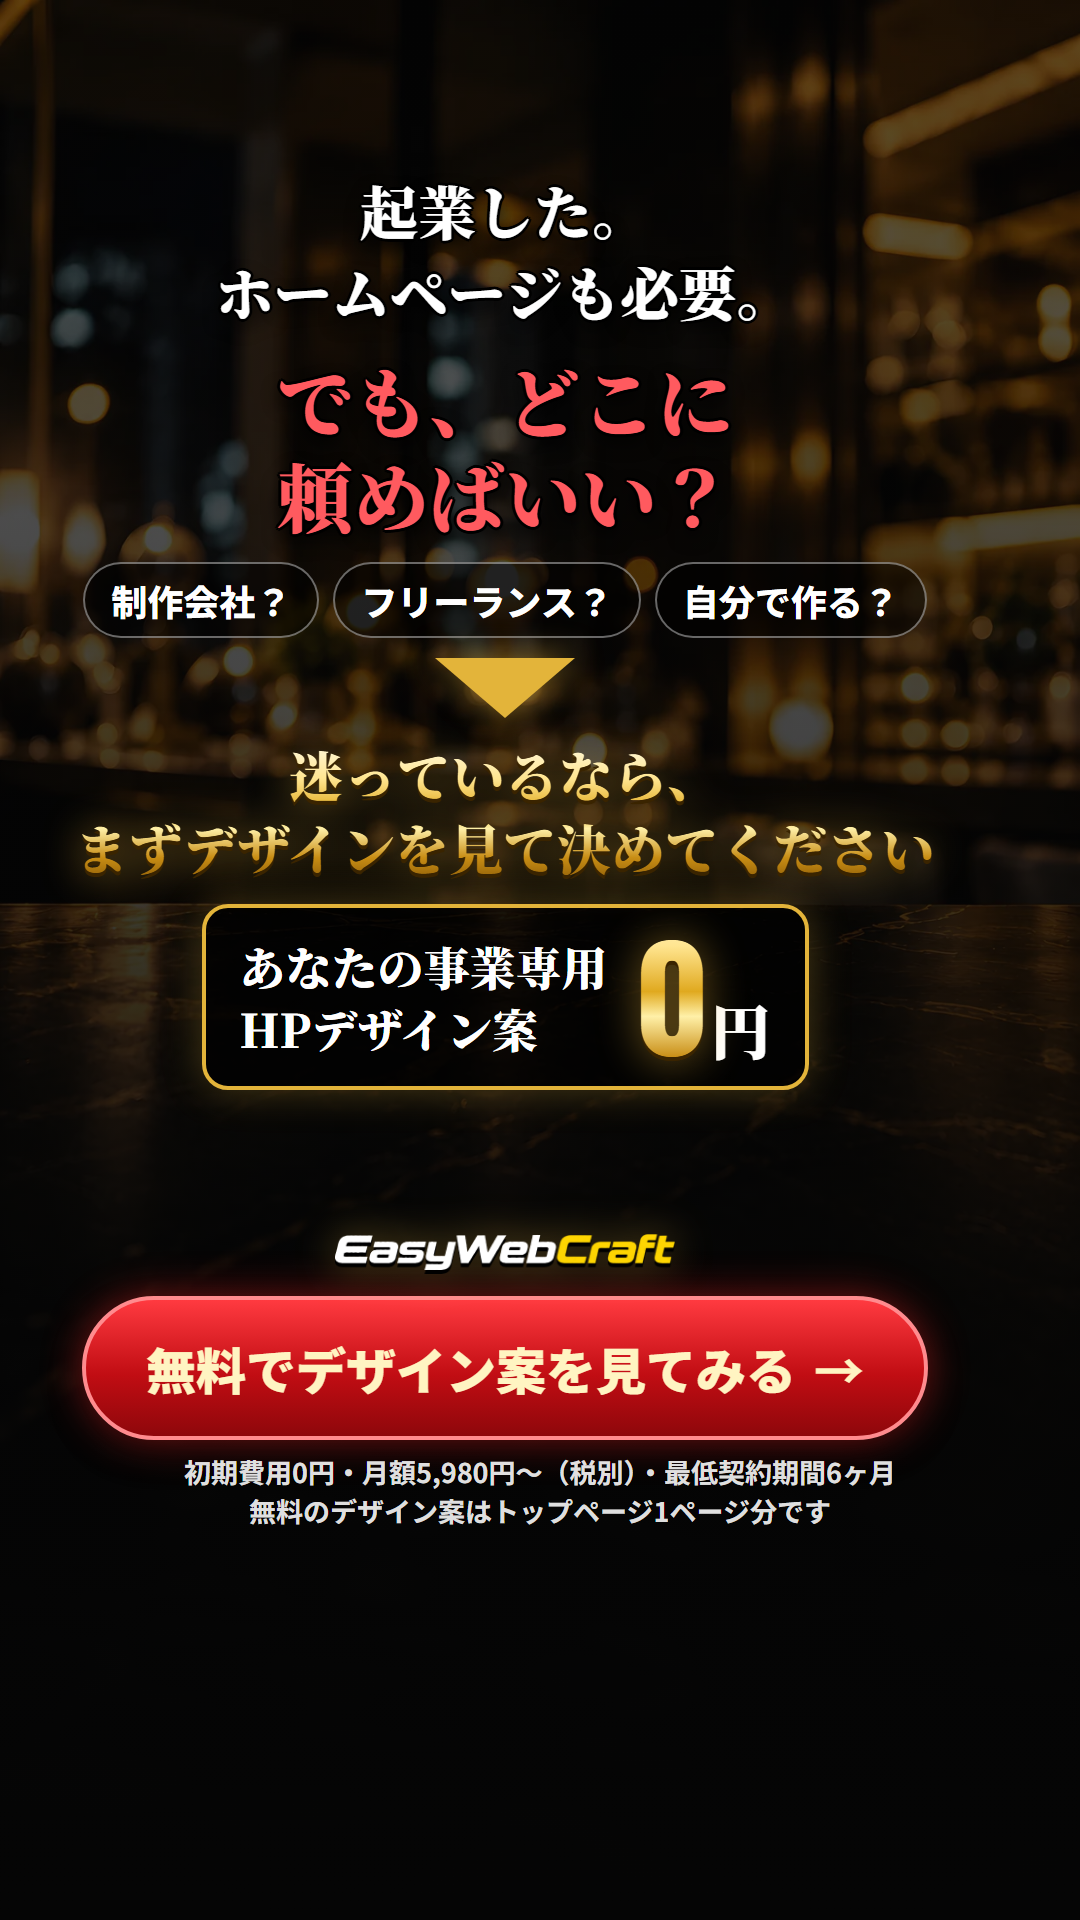
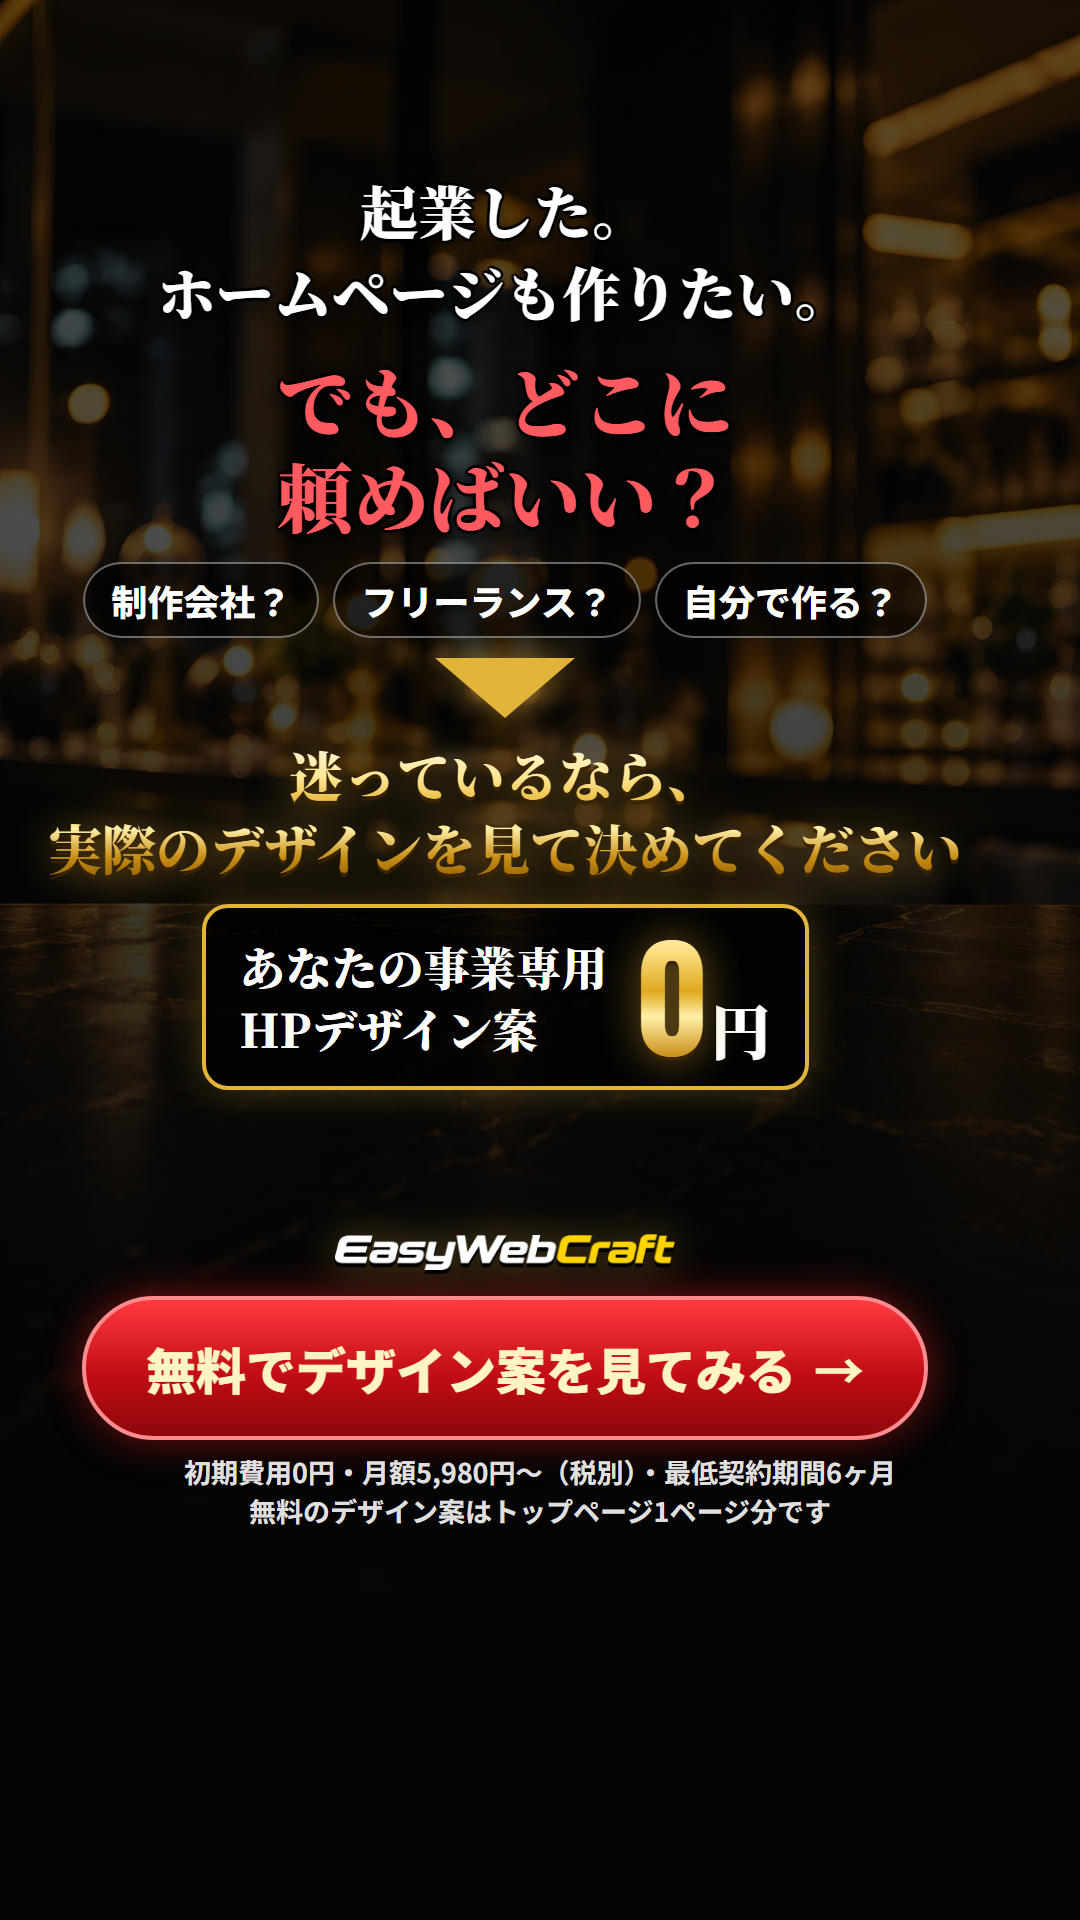
C3を「ホームページも作りたい」「実際のデザインを見て決めて」に調整、最初のテストをC2・C4・C5に変更
Claude-Session: https://claude.ai/code/session_01G65TiHfa1BUco43NvNDLJF

Changed region(s): [[0.0306, 0.4062, 0.8861, 0.4688], [0.1528, 0.125, 0.7333, 0.1875], [0.7333, 0.1562, 0.7639, 0.1875]]

diff --git a/challenge/index.html b/challenge/index.html
@@ -37,6 +37,7 @@ code{background:var(--bg); padding:0 5px; border-radius:4px; font-size:.88em; wo
 <div class="wrap">
   <header>
     <h1>挑戦LP向け TikTok広告画像 6案</h1>
+    <p class="lead"><b>起業直後のHP制作で抱える6種類の悩み</b>を1枚ずつテストする構成です。C1＝価格／C2＝品質の不安／C3＝依頼先選び／C4＝進め方が分からない／C5＝時間がない／C6＝契約・費用の不安</p>
     <p class="lead">LP（黒×金）と同じ背景・色・言葉で作った縦長画像です。広告から開いたときに、LPと同じ世界観がそのまま続くようにしています。</p>
     <div class="spec"><span>1080×1920（9:16）</span><span>文字はTikTokのUIがかぶらない範囲</span><span>税別・最低契約期間・無料の範囲の注記入り</span><span>C1・C4・C5は顔出し版</span></div>
   </header>
@@ -44,7 +45,7 @@ code{background:var(--bg); padding:0 5px; border-radius:4px; font-size:.88em; wo
   <div class="grid">
     <div class="card"><img src="jpg/c1.jpg?v=2" alt="起業したばかりの経営者様へ ホームページ制作 月額5,980円〜"><div class="no"><b>C1</b>起業直後×価格</div><span class="tgt">起業したばかり</span><span class="star">顔出し</span><p class="cap">起業したばかりの経営者様へ。ホームページ制作が初期費用0円・月額5,980円〜（税別）。契約前にデザインを確認できます。</p></div>
     <div class="card"><img src="jpg/c2.jpg?v=2" alt="こんなに安くて本当にちゃんとしたHPができるの？"><div class="no"><b>C2</b>安すぎて不安？</div><span class="tgt">価格に不安がある人</span><span class="star">主力候補</span><p class="cap">「安すぎて不安…」そう思うのは当然です。だから、契約する前にあなたの事業専用のHPデザイン案を無料で作ります。</p></div>
-    <div class="card"><img src="jpg/c3.jpg?v=2" alt="起業した。でも、どこに頼めばいい？"><div class="no"><b>C3</b>どこに頼めばいい？</div><span class="tgt">依頼先で迷っている人</span><span class="star">新規</span><p class="cap">制作会社？フリーランス？自分で作る？迷っているなら、まずデザインを見て決めてください。デザイン案は0円です。</p></div>
+    <div class="card"><img src="jpg/c3.jpg?v=3" alt="起業した。でも、どこに頼めばいい？"><div class="no"><b>C3</b>どこに頼めばいい？</div><span class="tgt">依頼先で迷っている人</span><span class="star">新規</span><p class="cap">起業した。ホームページも作りたい。でも、制作会社？フリーランス？自分で作る？迷っているなら、実際のデザインを見て決めてください。デザイン案は0円です。</p></div>
     <div class="card"><img src="jpg/c4.jpg?v=2" alt="事業は決まった。でも、ホームページは何から始めればいい？"><div class="no"><b>C4</b>何から始めれば？</div><span class="tgt">HPの知識がない人</span><span class="star">顔出し</span><p class="cap">何を載せる？文章は？写真は？制作会社は？何も決まってなくてOK。考えるところからお任せください。</p></div>
     <div class="card"><img src="jpg/c5.jpg?v=3" alt="起業したばかり。やることだらけでHPまで手が回らない"><div class="no"><b>C5</b>手が回らない</div><span class="tgt">本業が忙しい人</span><span class="star">顔出し</span><p class="cap">営業、集客、経理…やることだらけの起業直後。文章・構成・デザインまで、まとめてお任せください。</p></div>
     <div class="card"><img src="jpg/c6.jpg?v=2" alt="起業したばかりだから、HPに大金はかけられない"><div class="no"><b>C6</b>安心3点セット</div><span class="tgt">比較検討中の人（リターゲティング向き）</span><p class="cap">初期費用0円・デザイン案0円・月額5,980円〜（税別）。7ヶ月目からいつでも解約OK。</p></div>
@@ -59,8 +60,9 @@ code{background:var(--bg); padding:0 5px; border-radius:4px; font-size:.88em; wo
   <div class="box">
     <h2>テストの進め方（おすすめ）</h2>
     <ol>
-      <li>まず C2・C3・C4 の3本で1〜2週間回し、「価格への不安」「依頼先の迷い」「何から始めるか」のどれが反応するかを見る</li>
-      <li>反応の良かった切り口に近いもの（C1・C5）と入れ替えて2回目のテスト。C6は一度LPを見た人へのリターゲティングに使う</li>
+      <li>まず <b>C2・C4・C5</b> の3本で1〜2週間回し、「価格・品質の不安」「進め方が分からない」「時間がない」のどれが反応するかを見る（3本ともHP制作を検討中の人向け）</li>
+      <li>反応の良かった切り口を10〜15秒の動画に展開する（C4は動画の試作あり）</li>
+      <li>2回目は C1（価格）・C3（依頼先選び）を追加。C6（契約・費用の不安）は一度LPを見た人へのリターゲティングに使う</li>
       <li>リンク先はすべて <code>https://easywebcraft.github.io/ewc-lp-challenge/</code></li>
     </ol>
   </div>

diff --git a/challenge/ads.html b/challenge/ads.html
@@ -169,7 +169,7 @@ body{width:1080px; font-family:"Noto Sans JP",sans-serif; color:#fff; background
 <!-- C3 検索されても出てこない → 他社へ -->
 <section class="ad" id="c3">
   <div class="in">
-    <p class="serif outline" style="font-size:58px; line-height:1.4">起業した。<br>ホームページも必要。</p>
+    <p class="serif outline" style="font-size:58px; line-height:1.4">起業した。<br>ホームページも作りたい。</p>
     <div class="g20"></div>
     <p class="serif red outline" style="font-size:76px; line-height:1.25">でも、どこに<br>頼めばいい？</p>
     <div class="g20"></div>
@@ -177,7 +177,7 @@ body{width:1080px; font-family:"Noto Sans JP",sans-serif; color:#fff; background
     <div class="g20"></div>
     <div class="arrow"></div>
     <div class="g20"></div>
-    <p class="serif gold" style="font-size:54px; line-height:1.35">迷っているなら、<br>まずデザインを見て決めてください</p>
+    <p class="serif gold" style="font-size:54px; line-height:1.35">迷っているなら、<br>実際のデザインを見て決めてください</p>
     <div class="g20"></div>
     <div class="offer"><p class="h">あなたの事業専用<br>HPデザイン案</p><p class="p"><b class="gold">0</b>円</p></div>
     <div class="sp"></div>
